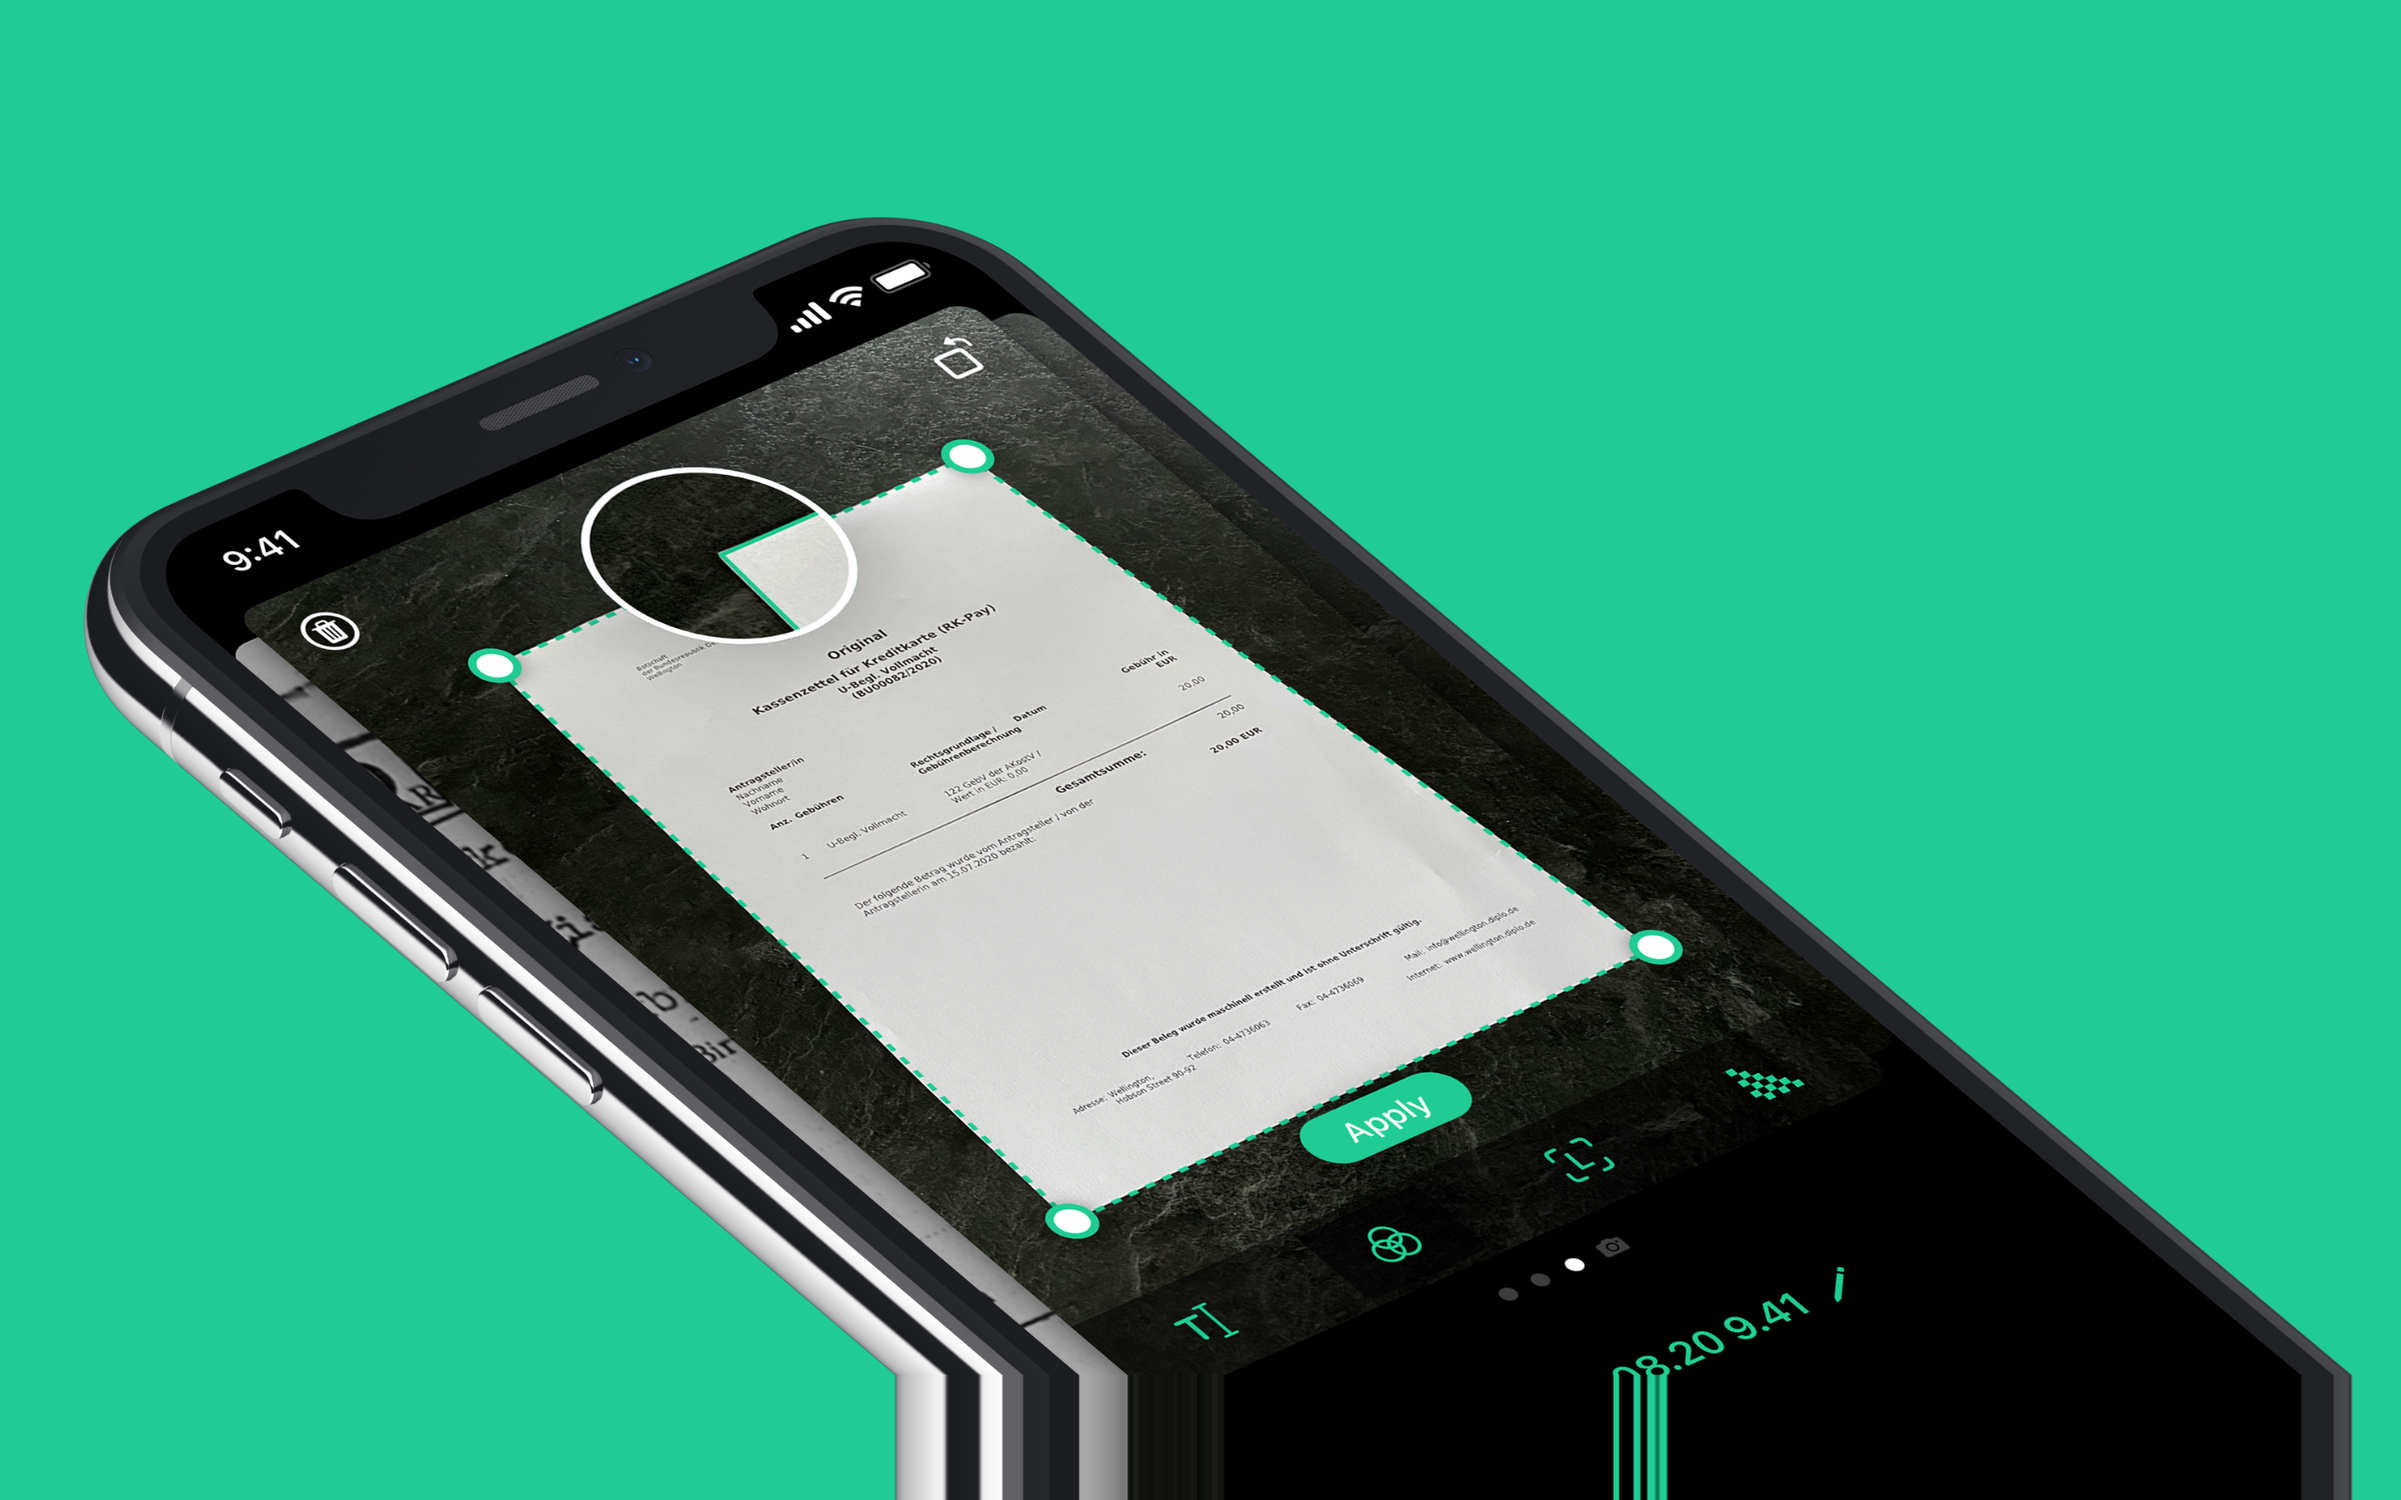
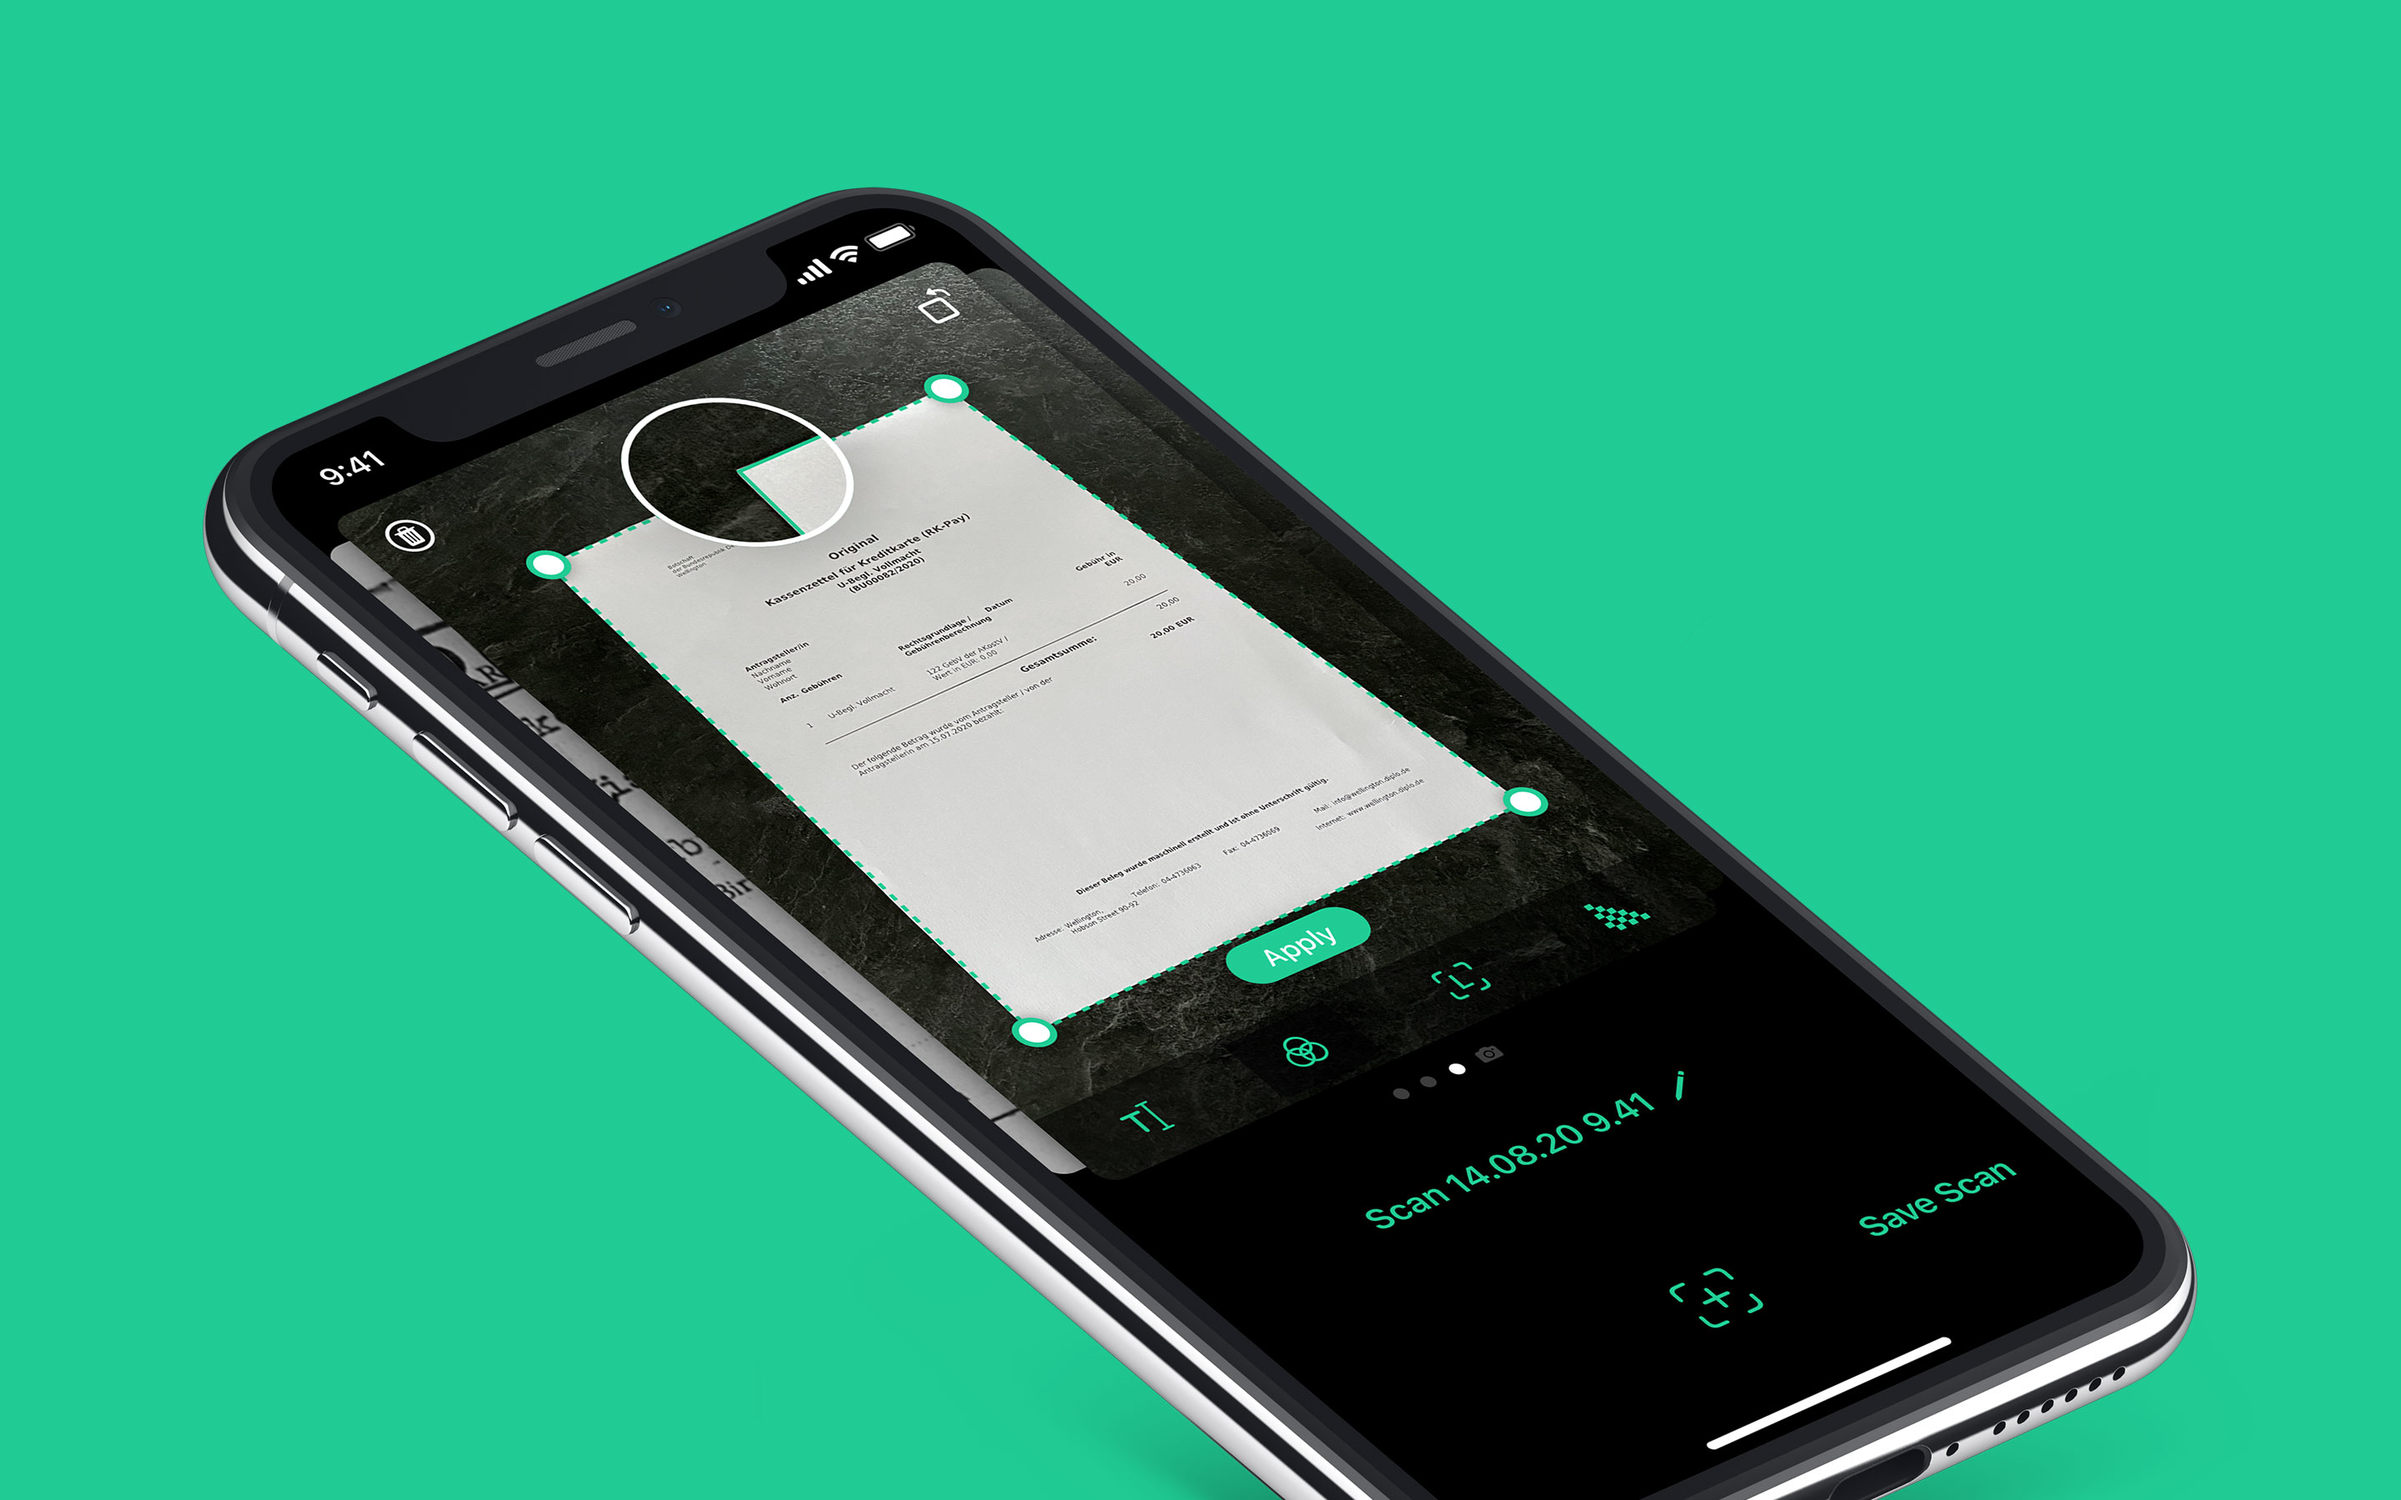
Drop Banking App's notifications slide, fix QuickScan's hero
QuickScan's hero now comes from a taller export of the board, without
the stretched bottom row.

diff --git a/src/data/projects.ts b/src/data/projects.ts
@@ -391,7 +391,6 @@ export const projects: Project[] = [
     gallery: [
       "work/banking-app-balance.png",
       "work/banking-app-transfers.png",
-      "work/banking-app-notifications.png",
       "work/banking-app-dark.png",
     ],
     galleryBleed: "all",

diff --git a/scripts/cases/behance-slides.py b/scripts/cases/behance-slides.py
@@ -12,14 +12,15 @@ SRC = ROOT.parent / "03_Working files/behance"
 OUT = ROOT / "src/assets/work"
 W, H = 2880, 1800
 
-# (project folder, source number, output name, crop anchor for tall boards: 0 top … 1 bottom)
+# (project folder, source number or file name, output name, crop anchor for tall boards: 0 top … 1 bottom)
+# The QuickScan hero uses Robin's taller re-export of board 04 (already 16:10), from
+# "Quick Scan/06_Production/Behance/04 Taller.jpg": the 2800x1460 board, extended, smeared its bottom row.
 SLIDES = [
     ("banking", 1, "banking-app-hero", 0.5),
     ("banking", 3, "banking-app-balance", 0.5),
     ("banking", 7, "banking-app-transfers", 0.5),
-    ("banking", 5, "banking-app-notifications", 0.5),
     ("banking", 9, "banking-app-dark", 0.5),
-    ("quickscan", 4, "quickscan-hero", 0.5),
+    ("quickscan", "04-taller.jpg", "quickscan-hero", 0.5),
     ("quickscan", 1, "quickscan-v1", 0.0),
     ("quickscan", 5, "quickscan-flow", 0.5),
     ("quickscan", 6, "quickscan-screens", 0.5),
@@ -42,7 +43,8 @@ def to_16_10(img, anchor):
 
 
 for folder, n, name, anchor in SLIDES:
-    img = Image.open(SRC / folder / f"{n:02d}.png").convert("RGB")
+    src = n if isinstance(n, str) else f"{n:02d}.png"
+    img = Image.open(SRC / folder / src).convert("RGB")
     out = to_16_10(img, anchor).resize((W, H), Image.LANCZOS)
     out.save(OUT / f"{name}.png", optimize=True)
     print(name, img.size, "->", out.size)
